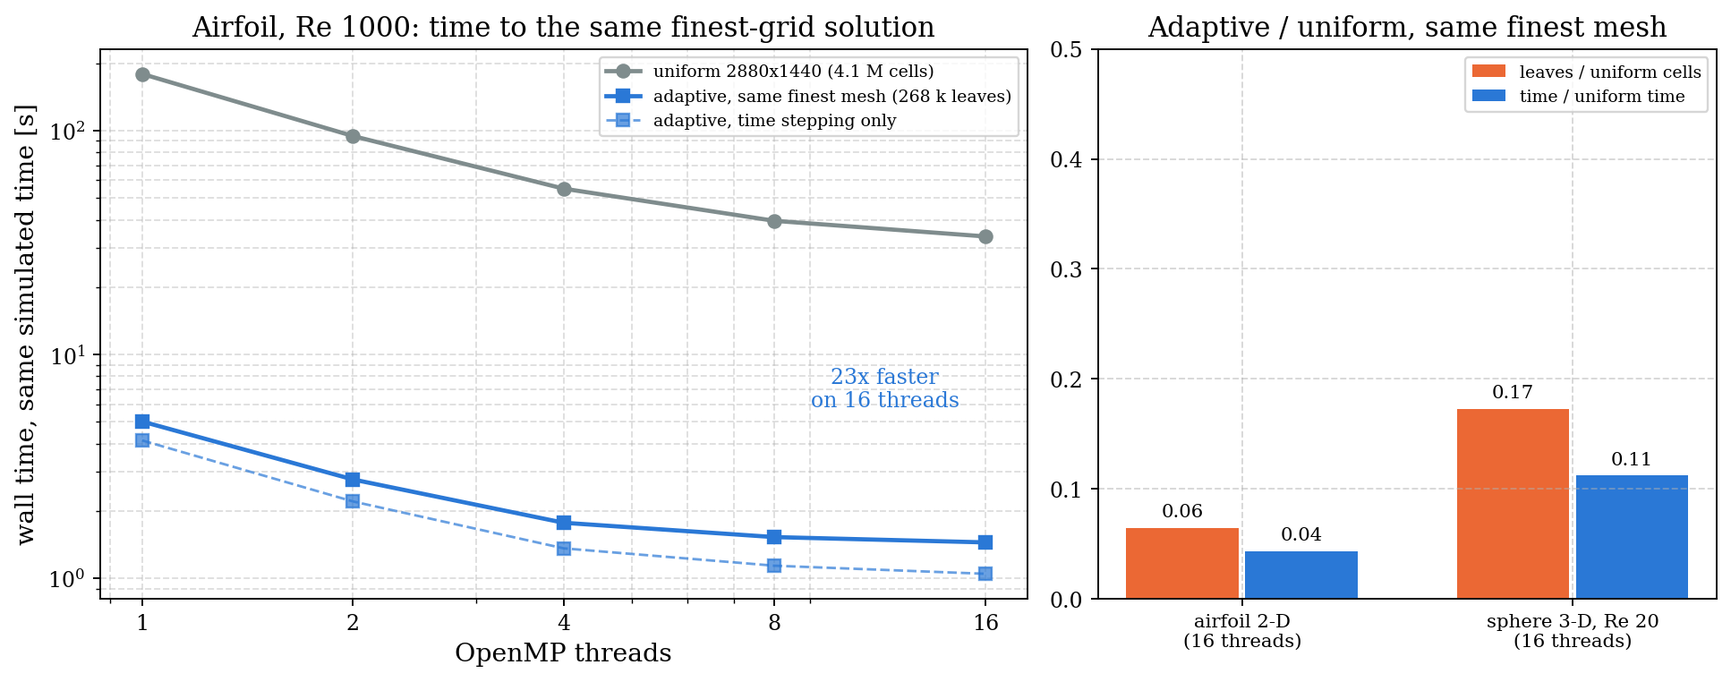
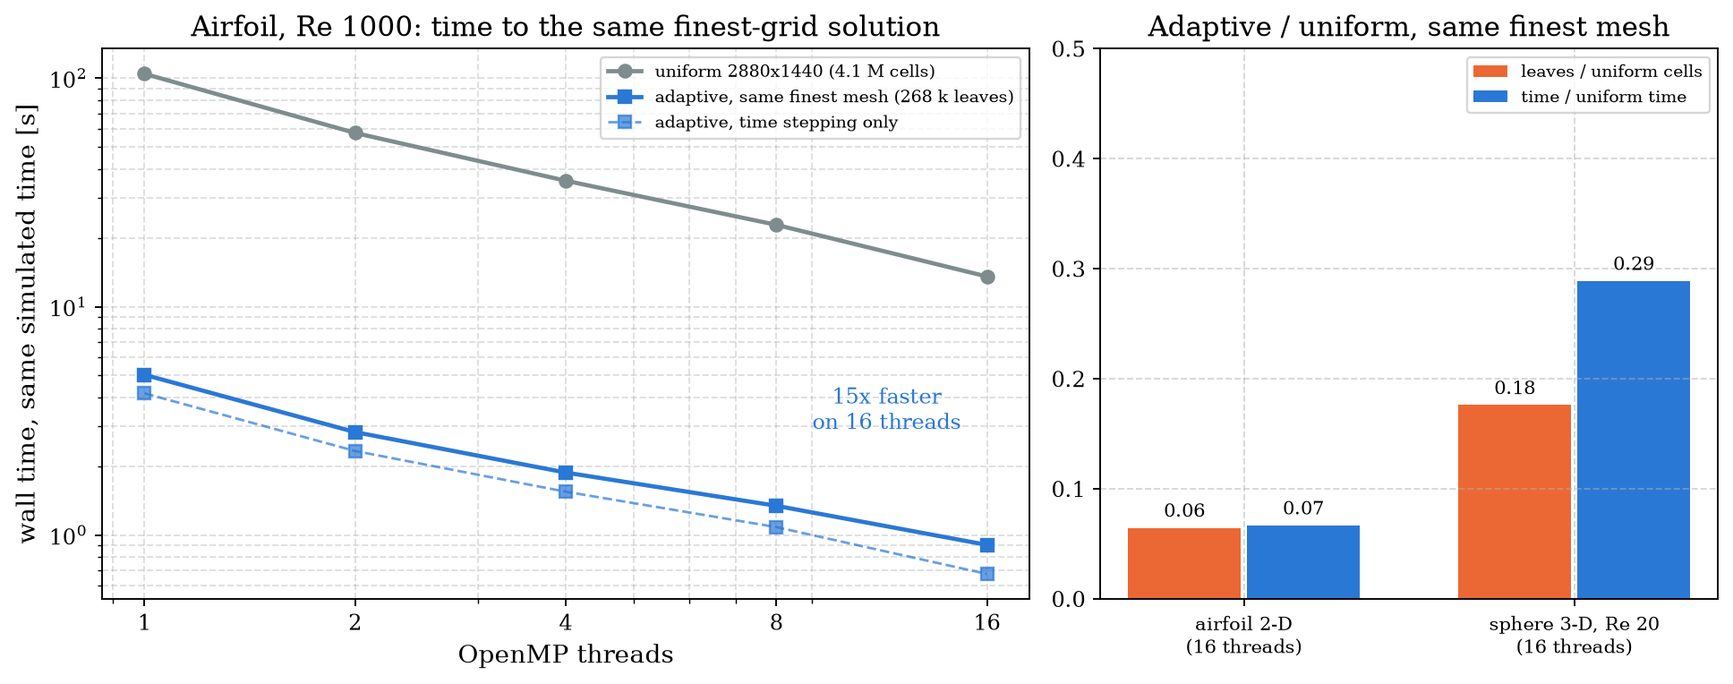
Docs: timings, memory and scaling from the 24-core workstation only (AMR, airfoil, sphere, performance) [skip ci]

diff --git a/docs/source/modules/AMR.md b/docs/source/modules/AMR.md
@@ -33,8 +33,8 @@ parallelises less well, so the comparison that means anything is at **the same f
 
 | same finest mesh, 16 OpenMP threads | uniform cells | adaptive leaves | adaptive time loop / uniform |
 |---|---:|---:|---:|
-| 2-D airfoil, Re 1000, 2 levels | 4.1 M | 268 k (6.5 %) | 0.04 (**23× faster**) |
-| 3-D sphere, Re 20, 2 levels | 432 k | 76 k (18 %) | 0.13-0.16 (**6-8× faster**) |
+| 2-D airfoil, Re 1000, 2 levels | 4.1 M | 268 k (6.5 %) | 0.07 (**15× faster**) |
+| 3-D sphere, Re 20, 2 levels | 432 k | 76 k (18 %) | 0.26-0.28 (**3.6-3.8× faster**) |
 
 The same solution costs a fraction of the uniform time, on one thread and on 16, and the fraction shrinks as the levels deepen. The sections below
 describe the engine; the last one measures it.
@@ -75,7 +75,7 @@ Against WENO3-Z on the same adaptive mesh (`cases/validation/amr/weno5_amr.py`, 
 | Shu-Osher, base 200 + 1 level | $L_1$ density error (reference: uniform WENO5-Z, 3200 cells) | 7.38e-2 | 2.99e-2 | 0.40 |
 | cavity Re 400, base 32 + 1 level | RMS of centreline $u$ / $v$ against the tabulated values | 4.23e-3 / 4.40e-3 | 3.65e-3 / 3.53e-3 | 0.86 / 0.80 |
 | cylinder Re 40, 20 finest cells per diameter | $C_d$ (uniform 400×200: 1.9047 / 1.9041) | 1.9424 | 1.8922 | 0.974 |
-| cost per step, 1 thread / 16 threads / 4 ranks | wall time | 60.5 / 12.1 / 21.8 ms | 96.3 / 16.9 / 31.0 ms | 1.59 / 1.40 / 1.42 |
+| cost per step, 1 thread / 16 threads / 4 ranks | wall time | 61.0 / 11.1 / 20.6 ms | 94.5 / 13.3 / 29.5 ms | 1.55 / 1.19 / 1.44 |
 
 The bands fixed before the runs are met (vortex: not above WENO3-Z; the tubes: within 5 % of WENO3-Z and no new over- or undershoot above $10^{-3}$ of the
 jump); the cavity, the cylinder and the cost are reported. The gain is largest where smooth structure is carried through the fine leaves (Shu-Osher) and
@@ -219,17 +219,17 @@ after it advanced, and the registers of the coarse-fine faces. A same-level face
 by the owner of the fine leaf. The result is identical to the serial run for any number of ranks (1 to 7 are checked in
 `amr_mpi.py --check`, on cases with remeshing, an immersed body, viscosity, a non-reflecting outlet and a time-dependent source).
 
-**Known limits.** The indicator, the flags and the state of the new leaves are local, each rank builds its share of the mesh and the engine tables directly from the leaves near its own (a wider reach is tried if a face reads what the share lacks), and the first mesh is adapted the same way, so no rank builds the engine of the whole mesh or adapts a mesh with faces (the base mesh itself is constructed once at setup, and every rank keeps the leaves and lookups of the whole topology). No rank holds the topology of the whole mesh: the ranks fetch the leaves around their own from the owners, settle the ripple and the merges between them and migrate the new leaves; same result bit for bit). The memory per rank at the end of the run falls from 279 MB serial to 140 / 92 / 64 / 51 MB on 2 / 4 / 8 / 16 ranks (peak 373 MB serial, 210 / 128 / 84 / 81 MB), and the wall time of the 720×360 airfoil is 5.0 / 2.6 / 2.1 / 2.4 s (table above); on the 1.06 M-leaf airfoil (1440×720) the memory per rank at the end falls from 1071 MB to 506 / 304 / 200 / 154 MB (peak 1447 MB serial, 774 / 448 / 297 / 297 MB) and the wall time goes from 20.9 s to 24.2 / 14.3 / 10.3 / 9.5 s (17.4 / 10.7 s on 2 / 4 ranks with the ranks pinned to physical cores: on one node the cores the ranks land on matter). The peak is the remesh and the first share. A checkpoint is written by rank 0 as the leaves of each rank reach it, one rank after the other: it holds its own leaves and those of one other rank, never the whole state. The whole mesh is gathered on rank 0 only for the post-processing outputs (probes, samples, averages) and for `dump_state`. On one node
+**Known limits.** The indicator, the flags and the state of the new leaves are local, each rank builds its share of the mesh and the engine tables directly from the leaves near its own (a wider reach is tried if a face reads what the share lacks), and the first mesh is adapted the same way, so no rank builds the engine of the whole mesh or adapts a mesh with faces (the base mesh itself is constructed once at setup, and every rank keeps the leaves and lookups of the whole topology). No rank holds the topology of the whole mesh: the ranks fetch the leaves around their own from the owners, settle the ripple and the merges between them and migrate the new leaves; same result bit for bit). The memory per rank at the end of the run (the largest over the ranks) falls from 432 MB serial to 298 / 177 / 115 / 83 MB on 2 / 4 / 8 / 16 ranks (peak 470 MB serial, 304 / 183 / 115 / 83 MB), and the wall time of the 720×360 airfoil is 4.9 s serial and 3.8 / 2.4 / 1.5 / 0.95 s (table below); on the 1.06 M-leaf airfoil (1440×720) the memory per rank at the end falls from 1304 MB to 950 / 528 / 375 / 268 MB (peak 1557 MB serial, 1070 / 601 / 395 / 274 MB) and the wall time goes from 20.2 s to 16.2 / 10.6 / 7.7 / 4.4 s; on 24 and 48 ranks the peak stays at 270 MB (the end falls to 237 and 212 MB). The peak is the remesh and the first share. A checkpoint is written by rank 0 as the leaves of each rank reach it, one rank after the other: it holds its own leaves and those of one other rank, never the whole state. The whole mesh is gathered on rank 0 only for the post-processing outputs (probes, samples, averages) and for `dump_state`. On one node
 OpenMP is the better choice; MPI gives the same result for any rank count and a moderate speed-up. Checkpoint and `dump_state` gather the
 leaves on rank 0 (a transient copy of the whole state); a restart cuts each rank's share from the leaf list of the checkpoint (three integer arrays) and reads only the state rows of its own leaves and their halo (`NpzFile`), so no rank holds the whole state or mesh; a hot start reads the whole source field.
 At the end of a run the solver prints the resident memory of the ranks (after setup, after the initial adaptation, at the end,
-the peak: minimum / maximum over the ranks) and the size of the tables of a rank: about 1.5 kB per leaf on the airfoil
-(`cases/validation/amr/amr_memory.py` measures it on 1 to 16 ranks; the remesh is distributed as well, see below).
+the peak: minimum / maximum over the ranks) and the size of the tables of a rank: about 1.4 kB per leaf on the airfoil
+(`cases/validation/amr/amr_memory.py` measures it on 1 to 48 ranks; the remesh is distributed as well, see below).
 
 ## Cost and scaling
 
-Machine for all numbers: Ryzen 7 7800X3D (8 cores, 16 threads), MSVC build, `FENICE_PROFILE=1` where the time is split, one run each, on an idle
-machine. The right question is what an adaptive run costs **against a uniform run that gives the same answer**, that is, on the same finest mesh;
+Machine for all numbers: a workstation with a Threadripper PRO 5965WX (24 cores, 48 hardware threads), gcc build under Linux, `FENICE_PROFILE=1` where the time is split, on an idle
+machine (the solver was also built and run on other x86-64 and ARM64 machines, see [Getting started]({{root}}guide/getting-started.html)). The right question is what an adaptive run costs **against a uniform run that gives the same answer**, that is, on the same finest mesh;
 the adaptive run against itself on more cores (further below) only says how well it parallelises.
 
 ### Against the uniform solver on the same finest mesh
@@ -244,10 +244,10 @@ over uniform cells and time over uniform time for the 2-D airfoil and the 3-D oc
 | | 2-D airfoil, 2 levels | 3-D sphere, Re 20, 2 levels |
 |---|---:|---:|
 | uniform cells at the finest resolution | 4 147 200 | 432 000 |
-| adaptive leaves at the end | 268 299 (6.5 %) | 73 012 (17 %) |
-| time loop, adaptive / uniform, 1 thread | 5.0 s / 179 s: **36× faster** | 0.27 (steady state): **3.7× faster** |
-| time loop, adaptive / uniform, 16 threads | 1.4 s / 34 s: **23× faster** | 0.09-0.13: **8-11× faster** |
-| difference of the result | loads of the fine mesh (see the [airfoil]({{root}}cases/airfoil.html) page) | $C_d$ within 0.02-0.85 % (see the [sphere]({{root}}cases/sphere.html) page) |
+| adaptive leaves at the end | 268 299 (6.5 %) | 76 120 (18 %) |
+| time loop, adaptive / uniform, 1 thread | 5.0 s / 104.6 s: **21× faster** | 0.32-0.38 (steady state): **2.6-3.1× faster** |
+| time loop, adaptive / uniform, 16 threads | 0.9 s / 13.6 s: **15× faster** | 0.26-0.28 (steady state): **3.6-3.8× faster** |
+| difference of the result | loads of the fine mesh (see the [airfoil]({{root}}cases/airfoil.html) page) | $C_d$ within 0.02-0.13 % (Re 20 and 100, see the [sphere]({{root}}cases/sphere.html) page) |
 
 Two things make the adaptive solver win by more than the cell count would suggest at first sight, and one limits the gain:
 
@@ -255,41 +255,48 @@ Two things make the adaptive solver win by more than the cell count would sugges
   one coarse step of the adaptive run (200 against 50 here), the adaptive one subcycles only the fine levels, which hold a small part of the cells.
 * The 2-D airfoil needs 6.5 % of the cells, the 3-D sphere 17 %, at only two levels: a refined region of a given thickness is a smaller fraction of the
   domain the finer the target resolution is, so the saving grows with the number of levels.
-* The adaptive run has overhead that a uniform mesh does not (the face list, the virtual cells, the flux registers, the remesh), and its step scales less well on threads (below). With more cores the ratio therefore creeps up (0.027 on one thread, 0.042 on 16 for the airfoil), it does not reverse.
+* The adaptive run has overhead that a uniform mesh does not (the face list, the virtual cells, the flux registers, the remesh), and its step scales less well on threads (below). With more cores the ratio therefore creeps up (0.048 on one thread, 0.067 on 16 for the airfoil), it does not reverse.
 
-A coarse uniform mesh is of course cheaper than a fine adaptive one (the 192×96 airfoil mesh takes 1.2 s); but it does not resolve the flow, and what
-counts is the time to a given error: AMR reaches the loads of the 768×384 mesh in 6.5 s against 56.5 s (see the [airfoil]({{root}}cases/airfoil.html) page).
+A coarse uniform mesh is of course cheaper than a fine adaptive one (the 192×96 airfoil mesh takes 2.9 s); but it does not resolve the flow, and what
+counts is the time to a given error: AMR reaches the loads of the 768×384 mesh in 13.6 s against 200.4 s (see the [airfoil]({{root}}cases/airfoil.html) page).
 
 ### Scaling on one node
 
-The same airfoil run (720×360 base mesh, 2 levels, 50 steps, 268 209 leaves):
+The same airfoil run (720×360 base mesh, 2 levels, 50 steps, 268 299 leaves):
 
 | run | wall time | speed-up | of which remesh |
 |---|---:|---:|---:|
-| serial, 1 thread | 4.94 s | 1.0 | 0.88 s |
-| OpenMP, 2 / 4 / 8 / 16 threads | 2.71 / 1.67 / 1.42 / 1.36 s | 1.8 / 3.0 / 3.5 / 3.6 | 0.54 / 0.40 / 0.37 / 0.39 s |
-| uniform 2880×1440, 1 / 16 threads (200 steps) | 179 / 33.7 s | 1.0 / 5.3 | |
-| MPI, 2 / 4 / 8 / 16 ranks, each rank its share of the mesh | 4.99 / 2.64 / 2.05 / 2.41 s | 0.99 / 1.87 / 2.41 / 2.05 | 2.41 / 1.33 / 0.99 / 1.12 s |
+| serial, 1 thread | 4.89 s | 1.0 | 0.84 s |
+| OpenMP, 2 / 4 / 8 / 16 threads | 2.74 / 1.81 / 1.28 / 0.87 s | 1.8 / 2.7 / 3.8 / 5.6 | 0.48 / 0.32 / 0.25 / 0.22 s |
+| uniform 2880×1440, 1 / 16 threads (200 steps) | 104.6 / 13.6 s | 1.0 / 7.7 | |
+| MPI, 2 / 4 / 8 / 16 ranks, each rank its share of the mesh | 3.84 / 2.43 / 1.53 / 0.95 s | 1.3 / 2.0 / 3.2 / 5.2 | 1.59 / 1.00 / 0.62 / 0.47 s |
 
-Every final state is bit for bit the serial one (`amr_mpi.py`). On a node, **use OpenMP threads for adaptive runs**: 3.6× on 16 threads against 5.3× for the
-uniform solver, whose time stays 25 times higher. The adaptive step parallelises less well than the uniform sweep because its levels are small (loops
-under 4096 items run on one thread), the remesh does not scale, and 50 steps are short (the remesh and the setup are a fixed part of them, which a long run
-amortises less than it looks: the remesh stays 18-29 % of the time loop). MPI gives the same result for any number of ranks but on one node it does not pay for this case: the
-remesh of a rank's share costs 1.0-2.4 s against 0.4-0.9 s on threads, and the stepping alone scales (2.6 s on 2 ranks, 1.1 s on 8), so MPI is for runs that
-do not fit in the memory of one node. The ranks of this table are placed by the system; pinned to physical cores the 2 / 4 / 8-rank runs take
-4.25 / 2.49 / 1.74 s (remesh 2.00 / 1.23 / 0.83 s). Eight ranks on the eight cores of this machine run each about 1.35 times slower than alone and wait for
-each other in the collective calls, which a run on several nodes does not pay. It scales better on a larger 3-D mesh, where the stepping is the larger share (the 3-D sphere below).
+Every final state is bit for bit the serial one (`amr_mpi.py`). Up to 16 workers OpenMP threads are ahead of MPI ranks at every count, and the two meet at 16 (5.6× and 5.2×);
+the uniform solver gains 7.7× on 16 threads and its time stays 15 times higher. The adaptive step parallelises less well than the uniform sweep because its levels are small (loops
+under 4096 items run on one thread), the remesh scales less than the stepping, and 50 steps are short (the remesh and the setup are a fixed part of them, which a long run
+amortises less than it looks: the remesh stays 17-25 % of the time loop on threads, and 41-49 % on ranks). The remesh of a rank's share costs 0.5-1.6 s against 0.2-0.5 s on threads,
+while the stepping alone scales on ranks as well as on threads, so MPI is for runs that do not fit in the memory of one node, or that go beyond it.
+The larger airfoil (1440×720 base mesh, 1.06 M leaves, 50 steps) takes 20.2 s serial, 3.7 s on 16 threads (5.5×) and 4.4 s on 16 ranks (4.5×), and its best time on MPI is 3.9 s on 48 ranks (5.1×);
+with WENO5-Z the same run takes 67.0 s serial and 6.0 s on 48 ranks (11.2×), and the remesh is a smaller share of it (30 % against 44 % for MUSCL on 48 ranks). The scaling over 1 to 48 workers of this and
+of the other adaptive and uniform cases is on the [Performance]({{root}}guide/performance.html#scaling-on-a-24-core-workstation) page.
 
 <figure style="margin:1em 0;">
 <img src="{{root}}img/amr_mpi.png" style="width:100%">
-<figcaption>AMR airfoil on a 720×360 base mesh with 2 levels, 50 steps, 16 logical processors
+<figcaption>AMR airfoil on a 720×360 base mesh with 2 levels, 50 steps, 1 to 16 workers on the 24-core workstation
 (<code>cases/validation/amr/amr_mpi.py</code>). Left: speed-up over the serial adaptive run on OpenMP threads and on MPI ranks,
-for the time stepping alone and with the remesh (the shaded counts use both threads of a core). Right: time of the uniform solver on the
+for the time stepping alone and with the remesh. Right: time of the uniform solver on the
 same finest mesh over the time of the adaptive run, on the same number of threads. Every final state is bit for bit the serial one.</figcaption>
 </figure>
 
-The 3-D sphere (octree, 73 k leaves, 200 steps from the steady state): 16 OpenMP threads 4.6 s (the remesh 7 % of it, 9× faster than on one thread), 8 MPI ranks
-10.9 s (the remesh 22 %), 4 ranks 17.1 s. Memory is 87 MB at the end (128 MB at the peak); per rank on 8 ranks 34-39 MB (peak 63-68 MB).
+The 3-D sphere (octree, 76 k leaves, Re 20, 200 steps from the steady state) takes 30.5 s per unit of physical time on one thread and 9.5 / 7.1 / 4.9 s on 4 / 8 / 16 threads
+(6.2× on 16, no further gain on 24 and 48: 4.9 s); on MPI ranks 18.9 / 11.3 / 7.4 / 5.1 / 4.9 s on 2 / 4 / 8 / 24 / 48 ranks, with the remesh at 7 / 11 / 16 / 30 / 39 % of the time.
+Memory is 109 MB at the end (142 MB at the peak) in the process of 16 threads; per rank 63 MB (peak 78 MB) on 8 ranks, 60 MB (76 MB) on 24 and 65 MB (76 MB) on 48.
+
+<figure style="margin:1em 0;">
+<img src="{{root}}img/amr_memory.png" style="width:100%">
+<figcaption>Memory and time per rank of the airfoil on 1 to 16 MPI ranks (720×360 and 1440×720 base meshes, 2 levels, 50 steps; <code>cases/validation/amr/amr_memory.py</code>):
+the resident memory of the largest rank, at the peak and at the end, and the wall time split into the time stepping and the remesh.</figcaption>
+</figure>
 
 ### Where the time goes
 
@@ -297,16 +304,16 @@ The 3-D sphere (octree, 73 k leaves, 200 steps from the steady state): 16 OpenMP
 
 Pie charts of the measured splits (`cases/validation/amr/time_split.py`; the "rest" slices are differences of measured totals). Reading them:
 
-* **The step is faces.** In the 3-D sphere step (100 steps on 16 threads, 1.94 s) the convective faces are 35 %, the viscous cell quantities and faces 28 %, the primitive state and
-  the virtual cells (means of the fine leaves under a coarse neighbour, interpolated values; evaluated for every level's call) 17 %, and the rest (stage copies, flux
-  registers, the gather of the cell fluxes, the immersed-body forcing, halo exchanges) about a fifth.
-* **The remesh is the price of adaptivity** and what limits the parallel efficiency: 7-11 % of a 200-step run on 16 threads, but a fifth to a half of it on 8 ranks:
-  2.35 s of 10.9 s on the sphere, where no leaf changes and the fetch of the region the indicator reads is 1.3 s of it, and 1.0 s of 2.05 s on the airfoil above, where
-  the leaves change at every remesh and each rank builds its new share over the old one.
-* **On the 2-D airfoil** (192×96 base mesh, 8 threads, t = 20) the remesh is 3.1 s of a 19.2 s loop: the indicator 1.15 s, the engine build 0.75 s, the wave-speed
-  bound 0.68 s, the adaptation of the mesh 0.55 s. A remesh that changes no leaf costs only the indicator, and the engine tables are updated, not rebuilt.
+* **The step is faces.** In the 3-D sphere step (60 steps on one thread, 4.26 s) the face fluxes take 3.54 s (83 %): the convective faces 1.44 s, the primitive state and
+  the virtual cells (means of the fine leaves under a coarse neighbour, interpolated values; evaluated for every level's call) 0.89 s, and the rest, the viscous cell quantities and faces, about 1.2 s. The stage copies, flux
+  registers, the gather of the cell fluxes, the immersed-body forcing and the halo exchanges are the other 17 %.
+* **The remesh is the price of adaptivity** and what limits the parallel efficiency: 17-25 % of the 50-step airfoil run on threads (17 % of the 60-step sphere run on 16 threads), but about 40-50 % of it on ranks:
+  0.62 s of 1.53 s on 8 ranks for the airfoil above, where the leaves change at every remesh and each rank builds its new share over the old one, and 1.28 s of 1.87 s on 16 ranks
+  for the sphere (60 steps), of which the rebuild is 0.96 s and the fetch of the leaves 0.46 s.
+* **On the 2-D airfoil** (720×360 base mesh, 1 thread, 50 steps) the remesh is 0.86 s of 5.0 s: the wave-speed
+  bound 0.31 s, the indicator 0.28 s, the adaptation of the mesh 0.24 s and the engine build 0.21 s. A remesh that changes no leaf costs only the indicator, and the engine tables are updated, not rebuilt.
 
-`FENICE_PROFILE=1` prints these sections (the `amr:` and `fetch:` lines); `cases/validation/amr/amr_memory.py` measures the memory per rank, about 1.5 kB per leaf on the airfoil.
+`FENICE_PROFILE=1` prints these sections (the `amr:` and `fetch:` lines); `cases/validation/amr/amr_memory.py` measures the memory per rank, about 1.4 kB per leaf on the airfoil.
 
 {{widget:AMR}}
 

diff --git a/docs/source/guide/performance.md b/docs/source/guide/performance.md
@@ -70,27 +70,9 @@ are faster on one node; see [AMR]({{root}}modules/AMR.html) for the timings.
 `--threads N` or set `OMP_NUM_THREADS` for hybrid MPI + OpenMP runs. The MPI result is
 identical to the serial one (see [MPIDecomposition]({{root}}modules/MPIDecomposition.html)).
 
-## Benchmark
-
-Time-loop wall time on a 16-thread workstation (Ryzen 7 7800X3D, MSVC), minimum of five runs
-(`cpp/tests/bench_cases.py`).
-
-| Case | Steps | 1 thread | 16 threads | MPI 4×1 | 16 threads vs 1 |
-|---|---:|---:|---:|---:|---:|
-| IBM cylinder 400×200 | 20 | 0.333 s | 0.079 s | 0.096 s | 4.2× |
-| Supersonic IBM 400×400 | 20 | 0.364 s | 0.075 s | 0.113 s | 4.9× |
-| Shu-Osher 4000×2 | 200 | 0.469 s | 0.507 s | 0.131 s | 0.9× |
-| Lid cavity SSP-RK3 128×128 | 20 | 0.092 s | 0.026 s | 0.027 s | 3.5× |
-
-The Shu-Osher mesh is small (8 000 cells), so the thread fork/join overhead outweighs the work and
-16 threads are no faster than one; MPI strips suit it better.
-
-On a MacBook Air (Apple M4, 10 threads), which runs the scalar kernels, supersonic IBM 400×400 takes
-0.138 s on 10 OpenMP threads, and the IBM cylinder 400×200 0.125 s on 4 MPI ranks.
-
 ## Cost of the reconstructions
 
-Wall time of the whole run on a 44-thread workstation (gcc, OpenMP, one process), cases as in the validation studies: the 2-D isentropic vortex
+Wall time of the whole run on the 24-core workstation of the next section (gcc, OpenMP, one process, 44 threads), cases as in the validation studies: the 2-D isentropic vortex
 over one period (`nx = ny = 256`, 65 536 cells) and the 3-D Taylor-Green vortex at Re 1600 on $64^3$ to $t = 20$.
 MUSCL uses the MC limiter with SSP-RK2, the WENO schemes SSP-RK3, CFL 0.5.
 
@@ -109,7 +91,9 @@ the Taylor-Green reference peak is 0.0127. The thread count never changes the re
 
 ## Scaling on a 24-core workstation
 
-Strong scaling of the time loop on a 24-core workstation (Threadripper PRO 5965WX, 48 hardware threads, gcc, Linux), minimum of two runs, no output.
+The timings of the studies, here and on the [AMR]({{root}}modules/AMR.html) page, are measured on one workstation, a Threadripper PRO 5965WX (24 cores, 48 hardware threads, gcc, Linux). The solver was also built and run on other x86-64 machines (MSVC and gcc), on Apple M4 and on Linux ARM64, with the tests and the regression references passing, but no timing of those machines is quoted.
+
+Strong scaling of the time loop, minimum of two runs, no output.
 Each case is a fixed number of steps: the viscous Taylor-Green vortex on $4096^2$ (MUSCL, SSP-RK2, 40 steps) and on $2048^2$ (`weno3`,
 SSP-RK3, 40 steps), the 3-D Taylor-Green vortex on $256^3$ (MUSCL, 10 steps), the AMR airfoil on a $1440\times720$ base mesh with 2 levels (50 steps, MUSCL and `weno5`)
 and the octree sphere of the [sphere case]({{root}}cases/sphere.html) (60 steps). The speed-up is the time loop on one rank (or one thread) over the time loop of the run; ranks are bound to
@@ -134,6 +118,7 @@ physical cores up to 24, and the counts above 24 use both hardware threads of a 
 * **MPI against OpenMP** is close on the uniform cases (ranks ahead on the 3-D mesh, 6.9x against 5.0x). On the adaptive meshes OpenMP is ahead up to 16 workers, and the remesh grows with the ranks:
   on the octree sphere 16 ranks take 1.87 s with 1.28 s in the remesh, 48 ranks take 3.1 s with 2.6 s in it, and 24 threads take 1.16 s. Use MPI to go beyond one node; on one node prefer threads, or a few ranks of several threads.
 * **`weno5` scales better than MUSCL** (11.2x against 5.1x on the AMR airfoil): the larger arithmetic cost per cell hides the memory traffic and the remesh.
+* A mesh of a few thousand cells gains nothing from threads: loops under 4096 items run on one thread, so the fork/join of a longer loop would cost more than the work; MPI strips or one thread suit such cases.
 * The results are bitwise equal for every rank and thread count; only the time changes.
 
 The weak scaling keeps $1024\times512$ cells per rank (viscous Taylor-Green vortex, MUSCL, 40 steps): the time grows from 2.7 s on one rank to 3.5 s on 4, 5.6 s on 16 and 12.3 s on 48, an efficiency of 0.77, 0.49 and 0.22;

diff --git a/docs/source/cases/airfoil.md b/docs/source/cases/airfoil.md
@@ -59,24 +59,24 @@ python cases\validation\amr\airfoil_amr.py --docs                  # AMR against
 <img src="{{root}}img/airfoil_amr.png" style="width:100%">
 <figcaption>NACA 0012 at 10°, Re = 1000, up to $t = 6$ (<code>cases/validation/amr/airfoil_amr.py</code>).
 Top: vorticity with the refined leaves of the AMR run, which follow the airfoil and the wake. Bottom: drag and lift of the AMR run and of
-uniform 192×96, 384×192 and 768×384 meshes. Bottom right: work and precision, the wall time of each run (16 OpenMP threads) against its
+uniform 192×96, 384×192 and 768×384 meshes. Bottom right: work and precision, the wall time of each run (on the workstation) against its
 rms load error with respect to the 768×384 run (circles $C_l$, squares $C_d$).</figcaption>
 </figure>
 
 | run | cells | wall time | rms error of $C_d$ | rms error of $C_l$ |
 |---|---:|---:|---:|---:|
-| uniform 192×96 | 18 432 | 1.0 s | 0.043 | 0.29 |
-| uniform 384×192 | 73 728 | 5.3 s | 0.026 | 0.20 |
-| uniform 768×384 | 294 912 | 35.8 s | (reference) | (reference) |
-| AMR, 192×96 + 2 levels | 23 304 | 6.5 s | 0.010 | 0.048 |
+| uniform 192×96 | 18 432 | 2.9 s | 0.043 | 0.29 |
+| uniform 384×192 | 73 728 | 23.3 s | 0.026 | 0.20 |
+| uniform 768×384 | 294 912 | 200.4 s | (reference) | (reference) |
+| AMR, 192×96 + 2 levels | 23 304 | 13.6 s | 0.010 | 0.048 |
 
 The errors are rms differences of $C_d(t)$ and $C_l(t)$ from the 768×384 run over
 $1 \le t \le 6$ (this is the impulsive start of the flow, not a statistically steady state).
 The comparison that matters is the time to a given error. AMR reaches the loads of the fine mesh (8 % of its cells)
-in 6.5 s against 35.8 s, about 5.5× faster, and it is four times more accurate than the uniform 384×192 run at a similar cost
-(6.5 s against 5.3 s, lift error 0.048 against 0.20). The cheap uniform 192×96 run takes 1.0 s, but its lift error
+in 13.6 s against 200.4 s, about 15× faster, and it is four times more accurate than the uniform 384×192 run at a lower cost
+(13.6 s against 23.3 s, lift error 0.048 against 0.20). The cheap uniform 192×96 run takes 2.9 s, but its lift error
 is about 6× larger: "AMR is slower than the coarse mesh" compares two runs of different accuracy. The wall times
-are one run each on 16 OpenMP threads.
+are one run each on the workstation.
 
 Caveats. The window is an impulsive start, not a statistically steady flow, so these figures are not a converged
 work-precision study. With more cores the advantage shrinks slightly because AMR parallelises worse than the uniform

diff --git a/docs/source/cases/cylinder.md b/docs/source/cases/cylinder.md
@@ -226,9 +226,7 @@ Over $25 \le t \le 60$ (28 shedding periods), 3 levels (20 cells per diameter) a
 <figcaption>Re = 100 in the $16\times12$ box, 40 cells per diameter at the body: vorticity at $t = 60$ (the velocity of the
 leaves is smoothed over one coarse wake cell before the derivative; the body is drawn), a zoom on the body at the finest
 cell size (smoothing 2.5 cells, so the boundary layer is not widened; vorticity saturated at $\pm 20$) with the AMR level
-there, the lift of both resolutions and its spectrum around the peak (the literature band is drawn at its true width). The final mesh has 42 126 leaves in place of 7.7 million cells;
-the run takes about 6 minutes on 16 OpenMP threads at 20 cells per diameter and about 13 minutes on 8 MPI ranks at 40
-(Ryzen 7 7800X3D).</figcaption>
+there, the lift of both resolutions and its spectrum around the peak (the literature band is drawn at its true width). The final mesh has 42 126 leaves in place of 7.7 million cells.</figcaption>
 </figure>
 
 The Strouhal number is $0.166$ at both resolutions, inside the literature band, and the frequency is the same to the

diff --git a/docs/source/cases/sphere.md b/docs/source/cases/sphere.md
@@ -37,7 +37,7 @@ steady and symmetric.</figcaption>
   say where it is going. The study's band (a change of at most 3 %) is a regression guard set after the run.
 * The serial and distributed runs of the sphere agree bit for bit (`ibm_ghost.py --check`, 2 to 7 ranks).
 
-On the adaptive octree (`cases/validation/amr/octree_q8.py`) the same sphere at an equal finest resolution of 20 cells per diameter gives $C_d$ within about 0.1 % of the uniform solver (Re 20 and 100), in 0.1-0.2 of the time (16 threads) and with 76 k leaves against 432 k cells; see [AMR]({{root}}modules/AMR.html).
+On the adaptive octree (`cases/validation/amr/octree_q8.py`) the same sphere at an equal finest resolution of 20 cells per diameter gives $C_d$ within about 0.1 % of the uniform solver (Re 20 and 100), in 0.3-0.5 of the time (whole runs on 16 threads) and with 76 k leaves against 432 k cells; see [AMR]({{root}}modules/AMR.html).
 
 ## Related
 
